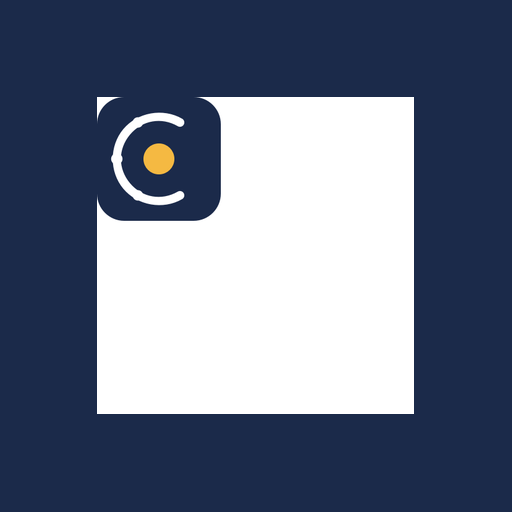
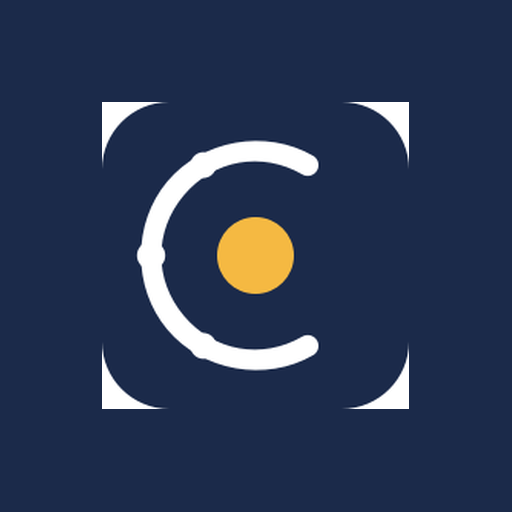
Ícone da aba em tamanho cheio: a arte ocupava só 40% do arquivo
A logo aparecia miúda na aba porque a arte original estava no canto
superior esquerdo de uma tela 512x512 (200x200 de desenho, resto vazio) —
em 16px sobrava quase nada. Todos os ícones foram recortados e
regenerados com o desenho preenchendo o quadro inteiro, como os favicons
de referência (Spotify/Matific):

- /icone-aba-v4.png (nome novo: o v3 pequeno já tinha ficado em cache)
- favicon.ico (16/32/48) e favicon.png regenerados
- icon-192/icon-512/apple-touch-icon com a arte cheia
- icon-maskable-512 com a zona de segurança de 20% sobre o azul da marca

diff --git a/apps/web/index.html b/apps/web/index.html
@@ -22,9 +22,12 @@
          query strings em alguns navegadores). Um endereço inédito não tem
          cache velho em lugar nenhum. O favicon.ico clássico cobre quem pede
          /favicon.ico por conta própria. -->
-    <link rel="icon" type="image/png" href="/icone-aba-v3.png" />
+    <!-- v4: a arte original ocupava só 40% da tela (canto superior esquerdo)
+         e a logo saía miúda na aba — os ícones foram recortados para o
+         desenho preencher o quadro inteiro. -->
+    <link rel="icon" type="image/png" href="/icone-aba-v4.png" />
     <link rel="icon" type="image/x-icon" href="/favicon.ico" sizes="48x48" />
-    <link rel="apple-touch-icon" href="/apple-touch-icon.png?v=2" />
+    <link rel="apple-touch-icon" href="/apple-touch-icon.png?v=4" />
     <link rel="manifest" href="/manifest.webmanifest" />
   </head>
   <body>
